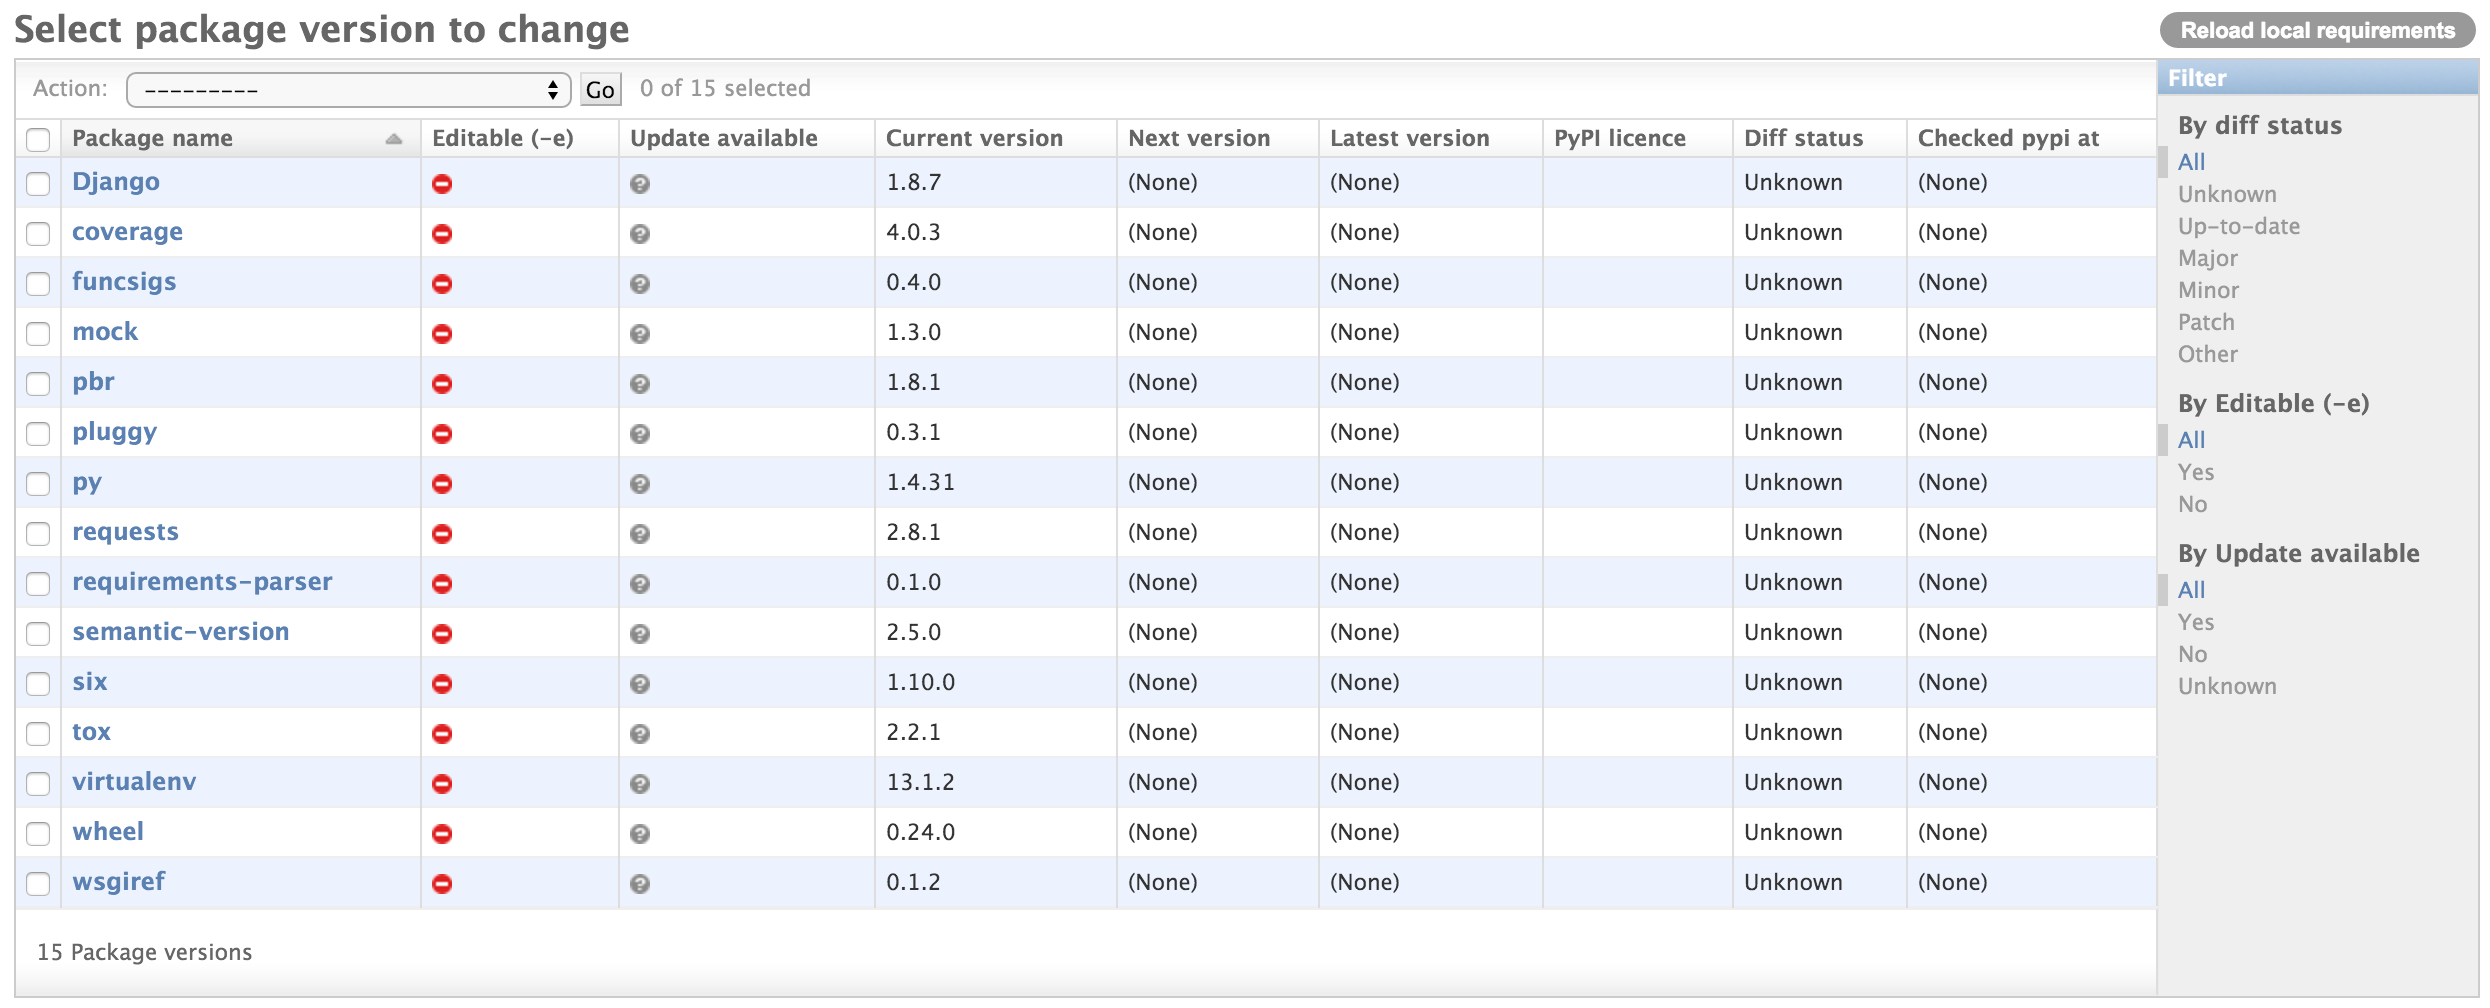
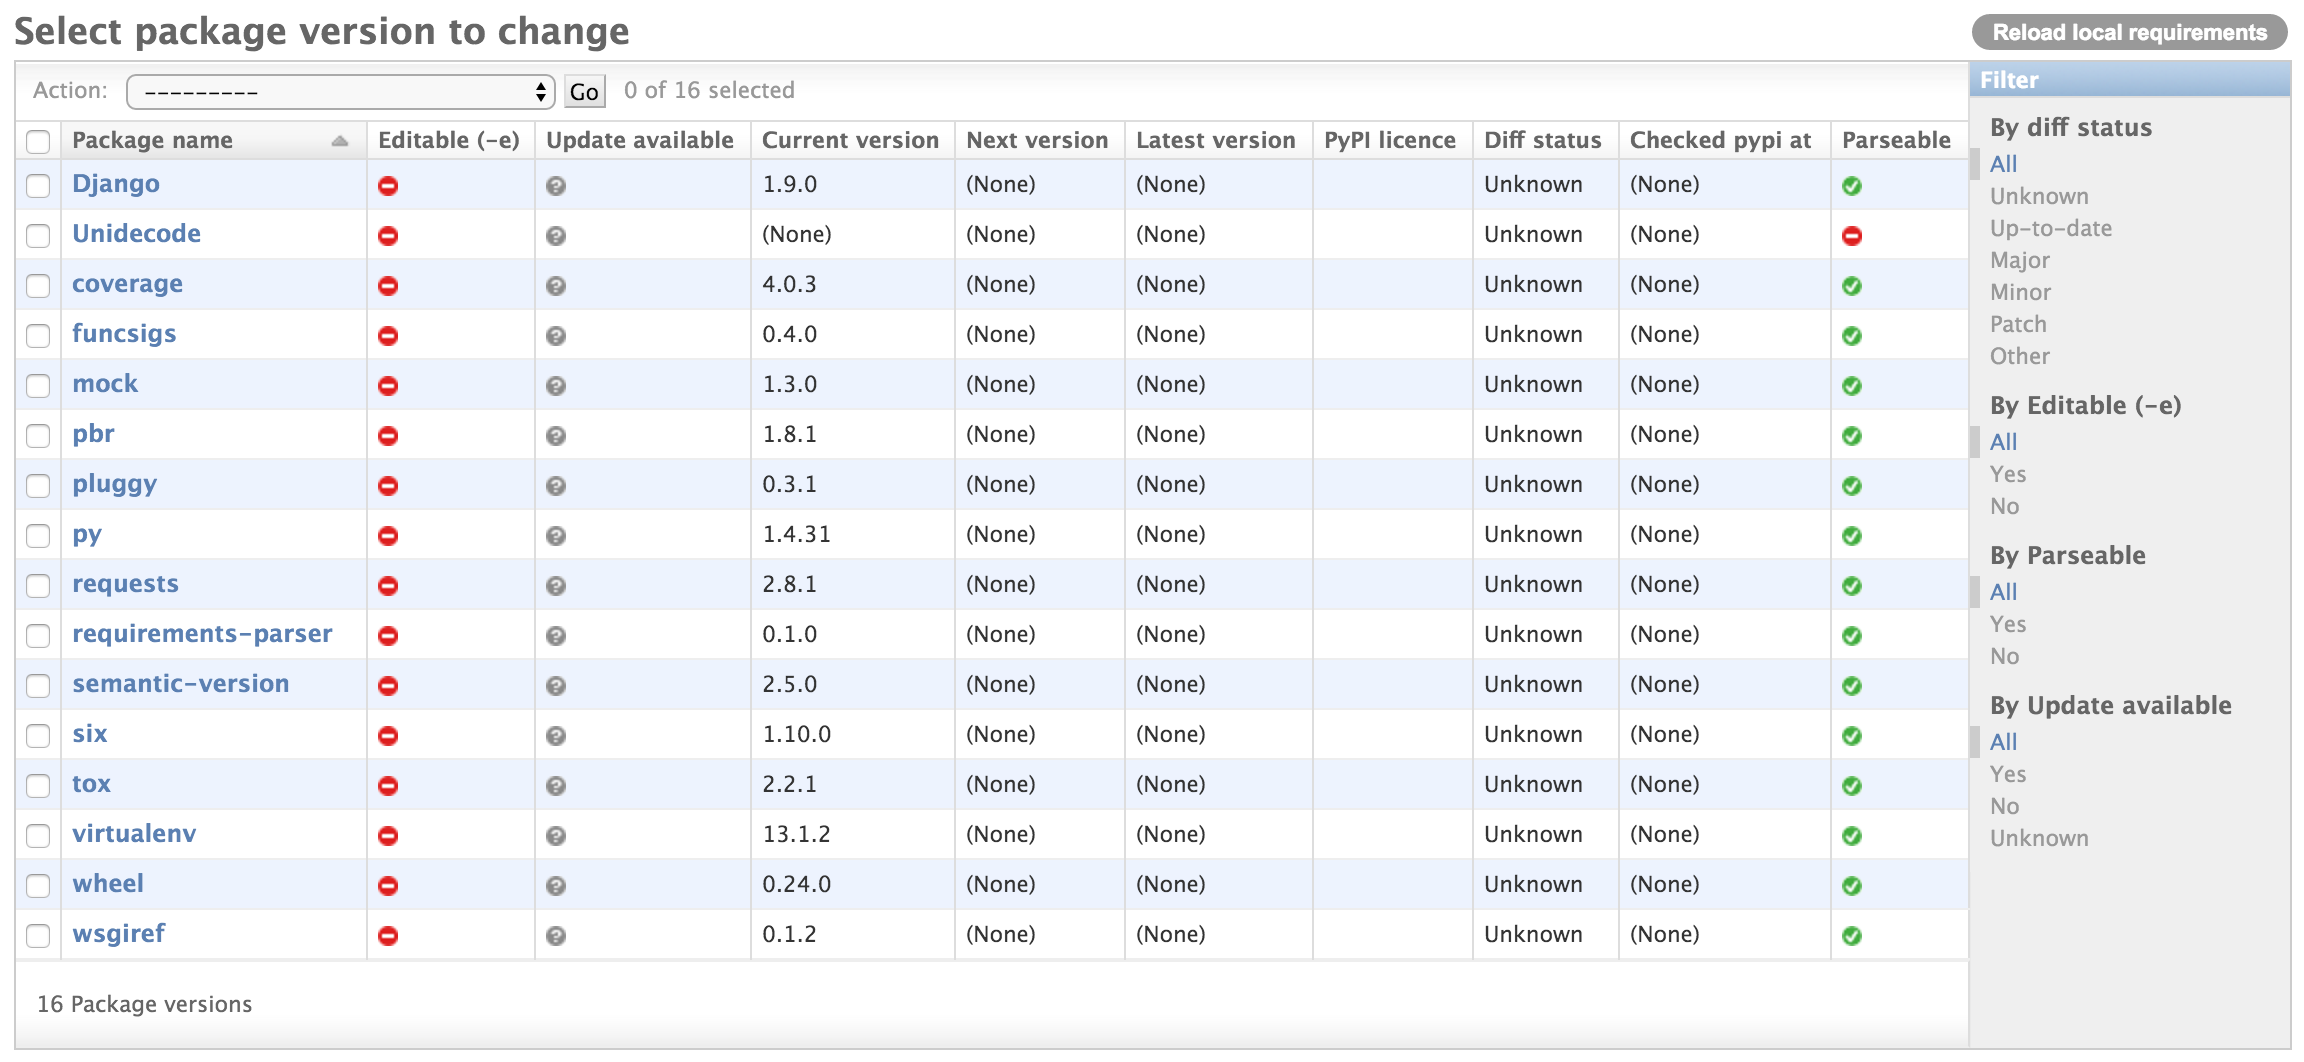
Update version (v0.3.5) docs and screenshots

diff --git a/setup.py b/setup.py
@@ -8,7 +8,7 @@ os.chdir(os.path.normpath(os.path.join(os.path.abspath(__file__), os.pardir)))
 
 setup(
     name="django-package-monitor",
-    version="0.3.4",
+    version="0.3.5",
     packages=[
         'package_monitor',
         'package_monitor.management',

diff --git a/README.rst b/README.rst
@@ -143,9 +143,12 @@ of the requirements file that you used earlier:
 .. image:: https://github.com/yunojuno/django-package-monitor/blob/master/screenshots/local_only.png
    :alt: Screenshot of admin list view populated with local requirements
 
+NB If any requirements cannot be parsed by the `semantic_version.Version.coerce` method, then the
+`is_parseable` property is set to `False`, and the package is in effect unmanaged.
+
 At this point it has parsed the requirements file, and stored the current working version of
-each package (as ``current_version``). In order to see what the latest versions are, select all the packages, and choose
-"Update selected packages from PyPI" form the actions list:
+each package (as ``current_version``). In order to see what the latest versions are, select all the packages,
+and choose "Update selected packages from PyPI" form the actions list:
 
 .. image:: https://github.com/yunojuno/django-package-monitor/blob/master/screenshots/select_all.png
    :alt: Screenshot of admin list view with all requirements selected
